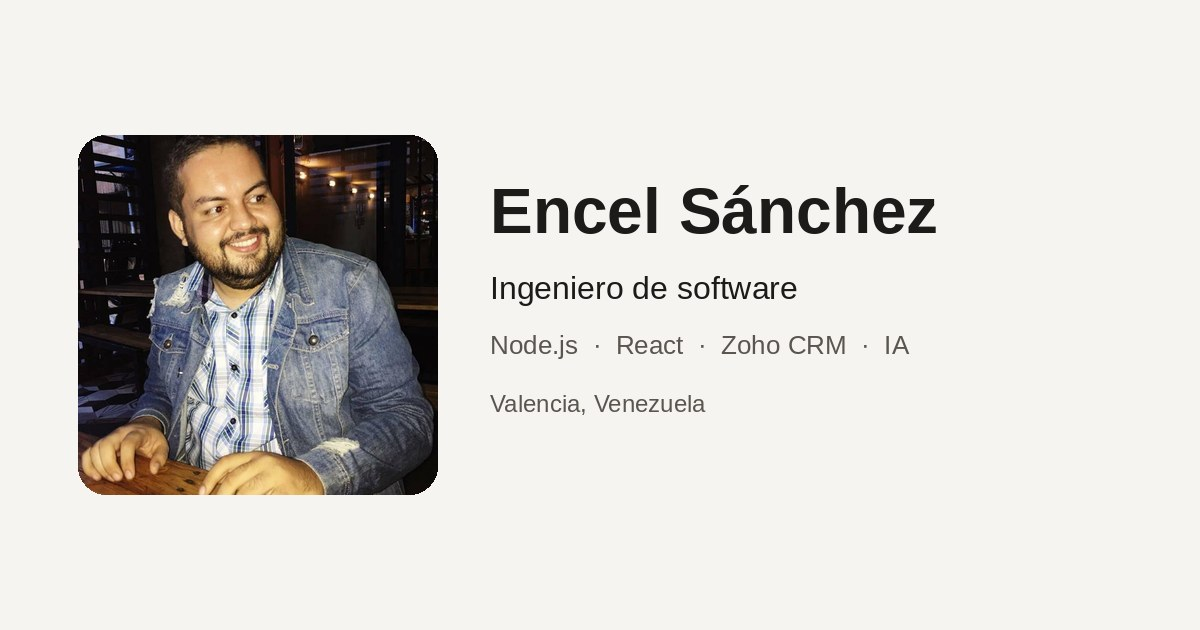
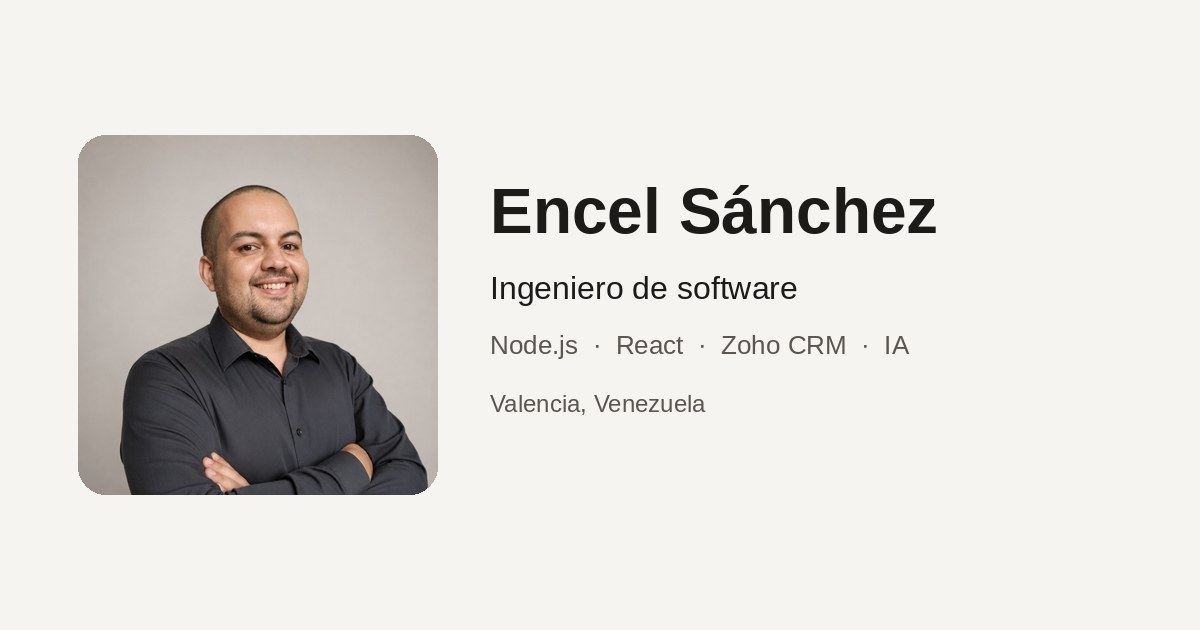
Use the studio portrait on the site and the share image.
The gray background and dark shirt sit with the quieter page better than the restaurant photo.

Changed region(s): [[0.0617, 0.2111, 0.37, 0.8143]]

diff --git a/index.html b/index.html
@@ -19,7 +19,7 @@
   <meta property="og:title" content="Encel Sánchez | Ingeniero de software">
   <meta property="og:description" content="Node.js, React, Zoho CRM, modelos de IA y liderazgo de equipos. Más de 18 años en sistemas web.">
   <meta property="og:url" content="https://encels.com/">
-  <meta property="og:image" content="https://encels.com/img/og-img.jpg">
+  <meta property="og:image" content="https://encels.com/img/og-img.jpg?v=7">
   <meta property="og:image:width" content="1200">
   <meta property="og:image:height" content="630">
   <meta property="og:image:alt" content="Encel Sánchez, ingeniero de software. Node.js, React, Zoho CRM e inteligencia artificial.">
@@ -27,7 +27,7 @@
   <meta name="twitter:site" content="@encels">
   <meta name="twitter:title" content="Encel Sánchez | Ingeniero de software">
   <meta name="twitter:description" content="Node.js, React, Zoho CRM, modelos de IA y liderazgo de equipos. Más de 18 años en sistemas web.">
-  <meta name="twitter:image" content="https://encels.com/img/og-img.jpg">
+  <meta name="twitter:image" content="https://encels.com/img/og-img.jpg?v=7">
   <meta name="twitter:image:alt" content="Encel Sánchez, ingeniero de software.">
   <meta name="theme-color" content="#f5f4f1">
   <link rel="icon" href="img/favicon.svg" type="image/svg+xml">
@@ -159,8 +159,8 @@
       </div>
       <figure class="portrait">
         <picture>
-          <source srcset="img/me.webp" type="image/webp">
-          <img src="img/me.jpg" width="709" height="831" alt="Encel Sánchez sonriendo, sentado a una mesa de madera, con chaqueta de jean." fetchpriority="high">
+          <source srcset="img/me.webp?v=7" type="image/webp">
+          <img src="img/me.jpg?v=7" width="819" height="1024" alt="Retrato de Encel Sánchez, con camisa oscura y los brazos cruzados, sobre un fondo gris." fetchpriority="high">
         </picture>
         <figcaption>Encel Eduardo Sánchez Veloz</figcaption>
       </figure>

diff --git a/english-version.html b/english-version.html
@@ -19,7 +19,7 @@
   <meta property="og:title" content="Encel Sánchez | Software engineer">
   <meta property="og:description" content="Node.js, React, Zoho CRM, AI models and team leadership. More than 18 years in web systems.">
   <meta property="og:url" content="https://encels.com/english-version.html">
-  <meta property="og:image" content="https://encels.com/img/og-img.jpg">
+  <meta property="og:image" content="https://encels.com/img/og-img.jpg?v=7">
   <meta property="og:image:width" content="1200">
   <meta property="og:image:height" content="630">
   <meta property="og:image:alt" content="Encel Sánchez, software engineer. Node.js, React, Zoho CRM and artificial intelligence.">
@@ -27,7 +27,7 @@
   <meta name="twitter:site" content="@encels">
   <meta name="twitter:title" content="Encel Sánchez | Software engineer">
   <meta name="twitter:description" content="Node.js, React, Zoho CRM, AI models and team leadership. More than 18 years in web systems.">
-  <meta name="twitter:image" content="https://encels.com/img/og-img.jpg">
+  <meta name="twitter:image" content="https://encels.com/img/og-img.jpg?v=7">
   <meta name="twitter:image:alt" content="Encel Sánchez, software engineer.">
   <meta name="theme-color" content="#f5f4f1">
   <link rel="icon" href="img/favicon.svg" type="image/svg+xml">
@@ -159,8 +159,8 @@
       </div>
       <figure class="portrait">
         <picture>
-          <source srcset="img/me.webp" type="image/webp">
-          <img src="img/me.jpg" width="709" height="831" alt="Encel Sánchez smiling, seated at a wooden table, wearing a denim jacket." fetchpriority="high">
+          <source srcset="img/me.webp?v=7" type="image/webp">
+          <img src="img/me.jpg?v=7" width="819" height="1024" alt="Portrait of Encel Sánchez, in a dark shirt with his arms crossed, against a gray background." fetchpriority="high">
         </picture>
         <figcaption>Encel Eduardo Sánchez Veloz</figcaption>
       </figure>
